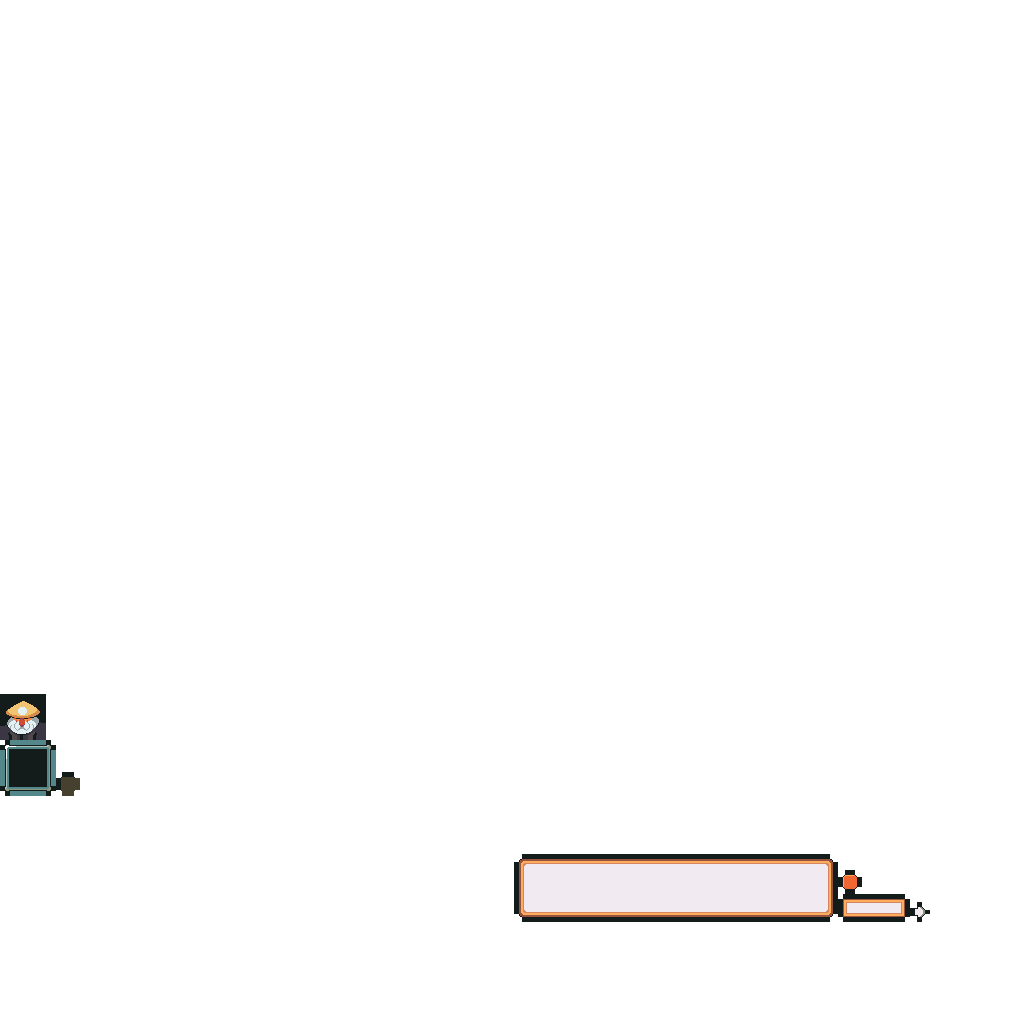
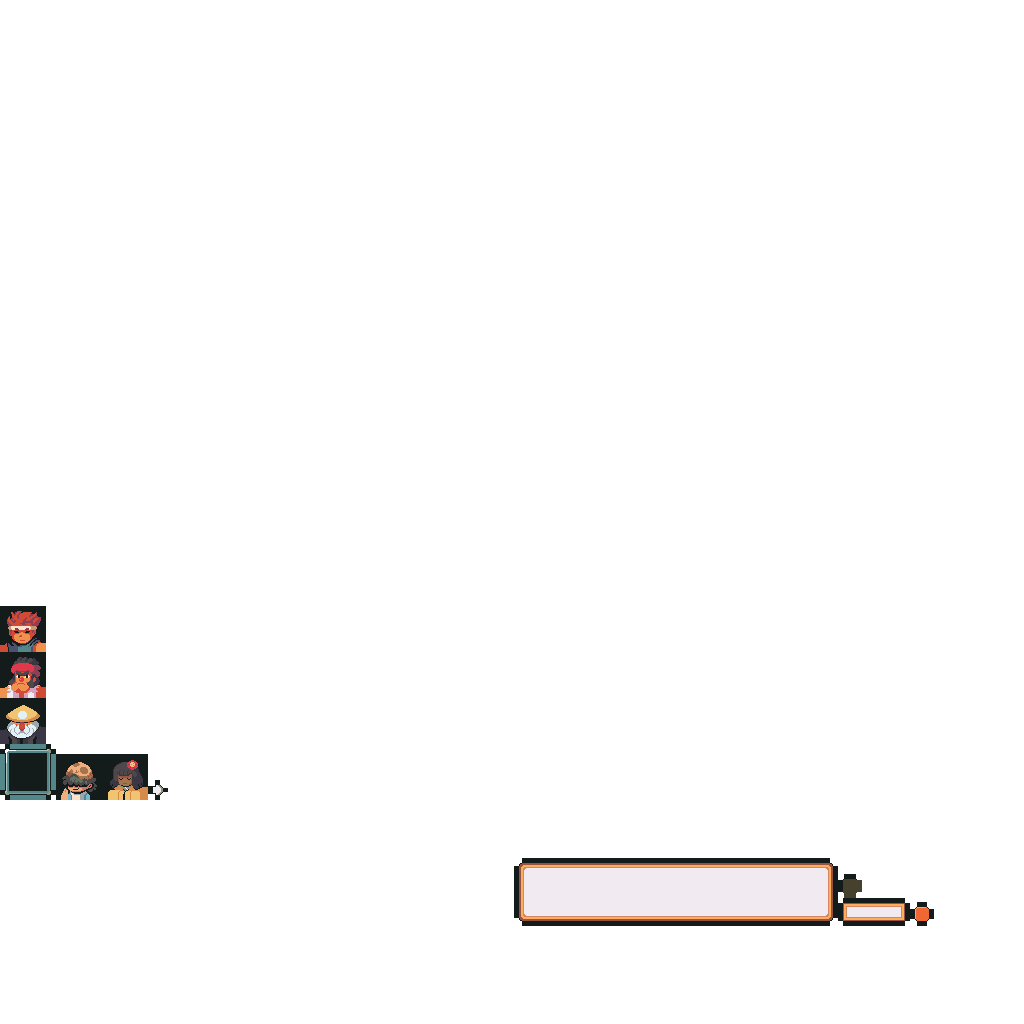
add merchant trigger

Changed region(s): [[0.5, 0.8125, 0.9062, 0.9062], [0.0, 0.5938, 0.1562, 0.7812]]

diff --git a/core/src/main/kotlin/io/github/masamune/trigger/TriggerConfigurator.kt b/core/src/main/kotlin/io/github/masamune/trigger/TriggerConfigurator.kt
@@ -13,6 +13,7 @@ class TriggerConfigurator {
         return when (name) {
             "villageExit" -> world.villageExitTrigger(name, scriptEntity, triggeringEntity)
             "elder" -> world.elderTrigger(name, triggeringEntity)
+            "merchant" -> world.merchantTrigger(name, triggeringEntity)
 
             else -> gdxError("There is no trigger configured for name $name")
         }
@@ -28,6 +29,16 @@ class TriggerConfigurator {
         trigger(name, this, triggeringEntity) {
             actionDialog("elder_00")
         }
+
+    private fun World.merchantTrigger(name: String, triggeringEntity: Entity) =
+        trigger(name, this, triggeringEntity) {
+            actionDialog("merchant_00") { selectedOptionIdx ->
+                if (selectedOptionIdx == 0) {
+                    println("TODO open shop UI")
+                }
+            }
+        }
+
 
     companion object {
         private val log = logger<TriggerConfigurator>()

diff --git a/core/src/main/kotlin/io/github/masamune/dialog/DialogConfigurator.kt b/core/src/main/kotlin/io/github/masamune/dialog/DialogConfigurator.kt
@@ -17,6 +17,7 @@ class DialogConfigurator(private val bundle: I18NBundle) {
 
         return when (name) {
             "elder_00" -> elderDialog(name, world, triggeringEntity)
+            "merchant_00" -> merchantDialog(name)
             "villageExit" -> villageExitDialog(name)
 
             else -> gdxError("There is no dialog configured for name $name")
@@ -38,6 +39,14 @@ class DialogConfigurator(private val bundle: I18NBundle) {
             option(dialogOptionOk, ActionExit)
         }
     }
+
+    private fun merchantDialog(name: String): Dialog = dialog(name) {
+        page(bundle["dialog.merchant_00.page1"], "merchant", bundle["npc.merchant.title"]) {
+            option(bundle["dialog.option.buy"], ActionExit)
+            option(bundle["dialog.option.exit"], ActionExit)
+        }
+    }
+
 
     private fun villageExitDialog(name: String): Dialog = dialog(name) {
         page(bundle["dialog.villageExit.page1"]) {

diff --git a/assets/maps/objects.tsx b/assets/maps/objects.tsx
@@ -68,10 +68,11 @@
    <property name="atlas" propertytype="AtlasAsset" value="CHARS_AND_PROPS"/>
    <property name="atlasRegionKey" value="merchant/idle_down"/>
    <property name="bodyType" propertytype="BodyType" value="DynamicBody"/>
-   <property name="dialogName" value="merchant_00"/>
+   <property name="dialogName" value=""/>
    <property name="hasAnimation" type="bool" value="true"/>
    <property name="objType" propertytype="MapObjectType" value="MERCHANT"/>
    <property name="speed" type="float" value="3"/>
+   <property name="triggerName" value="merchant"/>
   </properties>
   <image source="objects/merchant.png" width="16" height="16"/>
   <objectgroup draworder="index" id="2">
